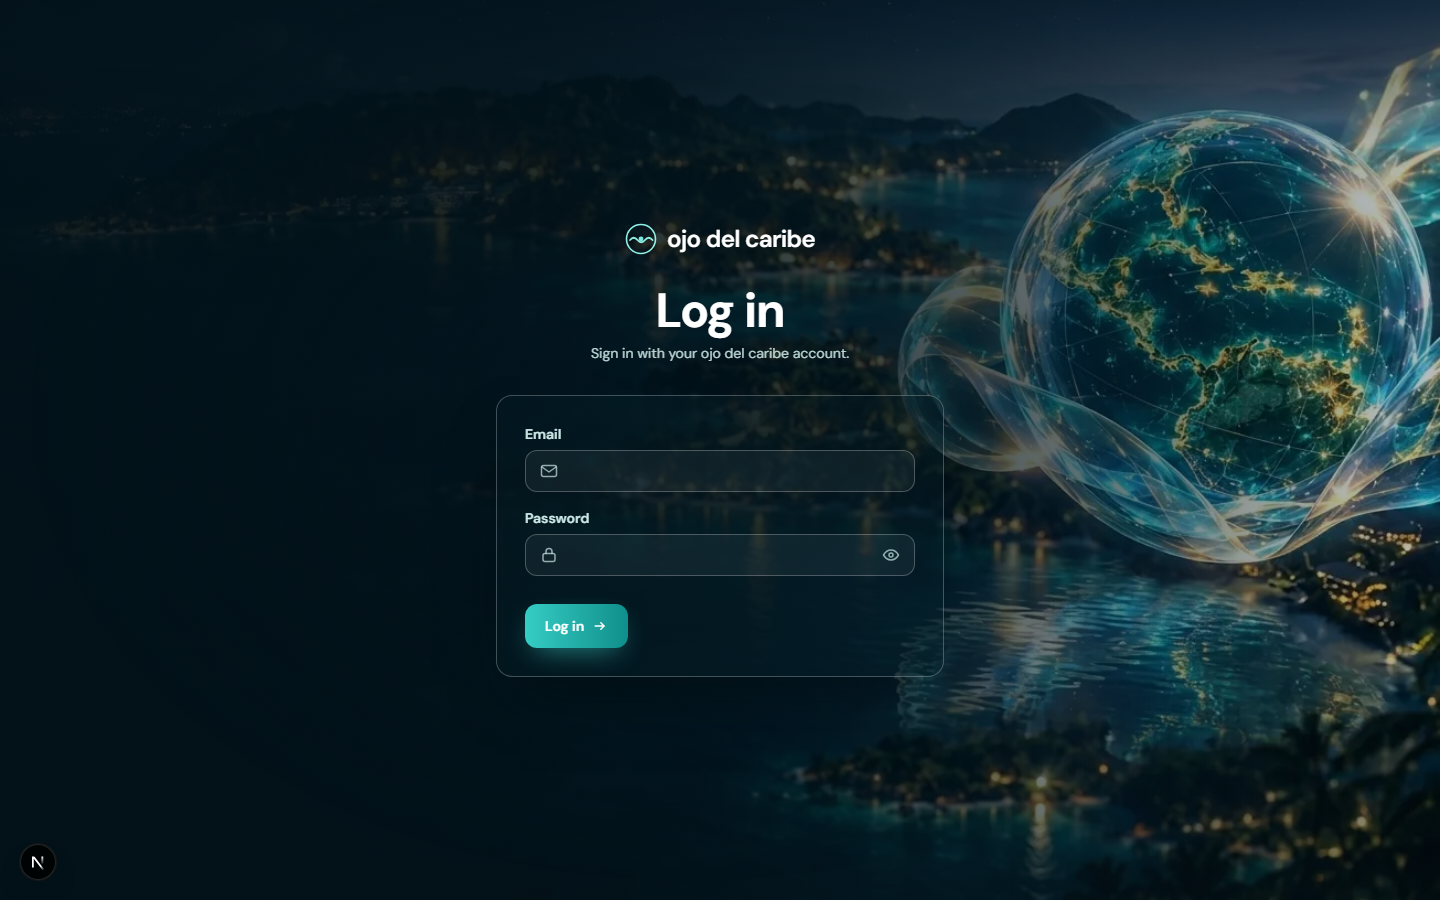
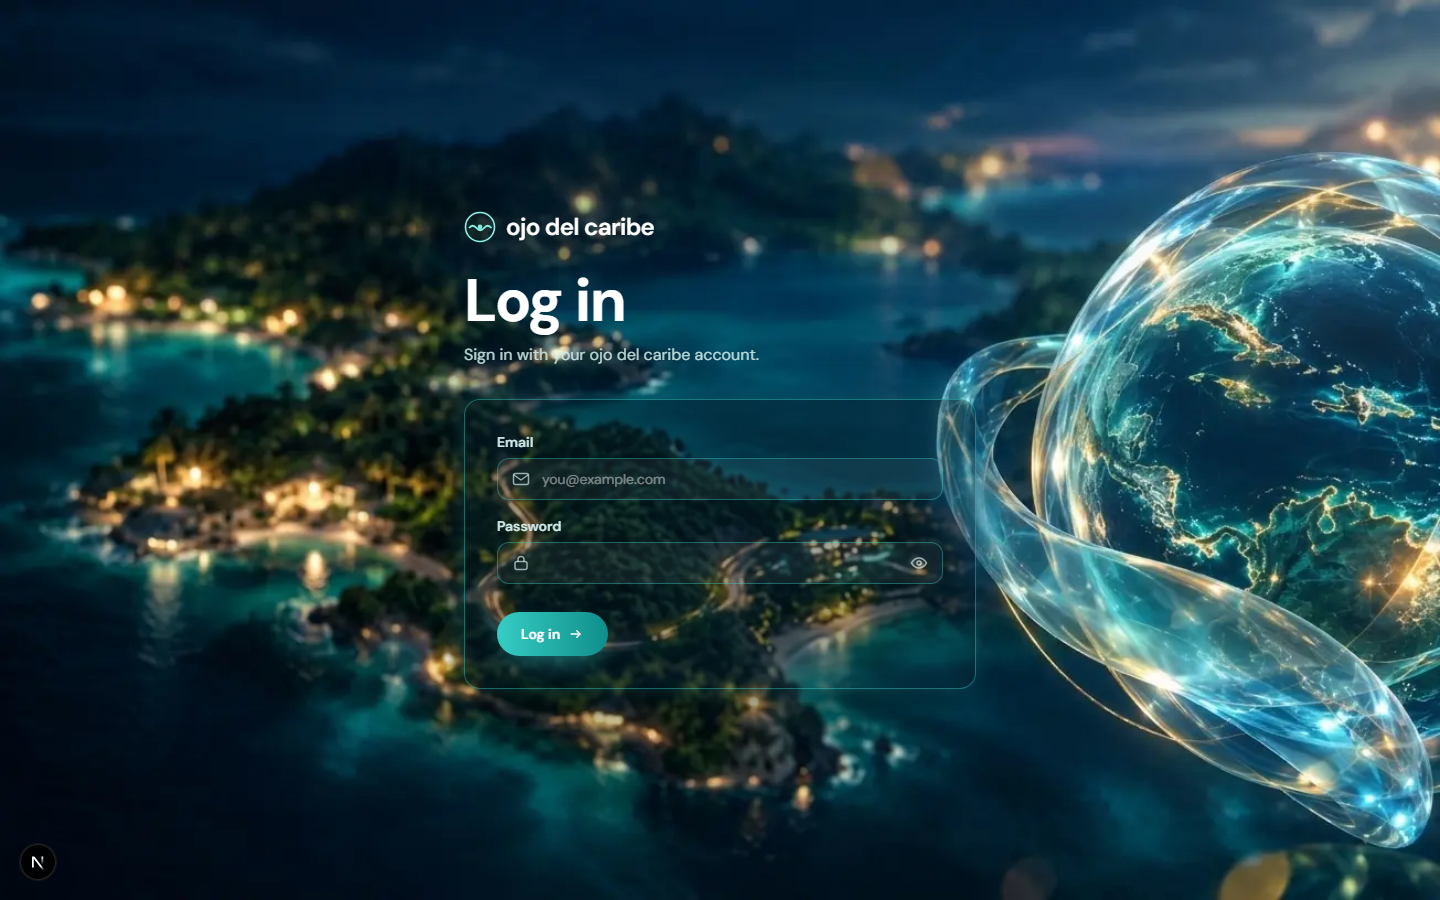
feat(login): match the reference mockup — own vivid webp, no navbar
User review against the mockup, four points: (1) no navbar on the login (the top bar added earlier is dropped; the brand lockup returns above the form); (2) the background must not look opaque — no navy scrim and no radial wash over the photo; (3) use the login's own asset public/login/caribbean-night.webp (previously unused/untracked) full-bleed instead of the shared jpg; (4) components follow the reference: card with cyan hairline + soft glow and p-8, cyan-tinted input borders with a you@example.com placeholder, pill-shaped gradient button, left-aligned h1/subtitle/card. The shared NightBackdrop moved from the root layout to the (app) layout so the two photos never stack or double-download; app views render byte-identical (only login.png changed in the regenerated screenshots). Verified: tsc 0, eslint 0, 51/51, e2e 1/1 (3.7s), browser screenshot compared against the mockup.

diff --git a/frontend/next/src/app/(auth)/login/page.tsx b/frontend/next/src/app/(auth)/login/page.tsx
@@ -1,70 +1,80 @@
+import Image from "next/image";
 import LoginForm from "@/components/LoginForm";
 
 // Full-bleed login ("ojo del caribe" mockup). Static page as before:
 // nothing is fetched server-side, so the build never needs Laravel.
 //
-// The Caribbean night photo is rendered ONCE at the root layout
-// (NightBackdrop) and shared with every app view — one cached download.
-// This page therefore adds no backdrop of its own (the old heavy
-// vertical scrim that dulled the globe is gone); it only paints a soft
-// radial wash behind the centered column so the heading and glass card
-// keep WCAG AA while the glowing globe on the right stays vivid.
+// Background = the login's OWN asset, public/login/caribbean-night.webp
+// (the exact photo from the mockup), rendered full-bleed and VIVID: no
+// navy scrim, no radial wash on top of it — per the user's "la imagen de
+// fondo no debería verse opaca". The glass card carries its own contrast
+// and the heading sits over the photo's dark sky region, as in the
+// reference image. The shared root backdrop (general-caribbean-night.jpg)
+// moved to the (app) layout, so the two photos never stack behind each
+// other or double-download.
+//
+// Layout follows the reference image minus the navbar ("lo único que no
+// va es el navbar"): brand lockup, h1, subtitle and card form a centered
+// column whose contents are LEFT-aligned like the mockup.
+
+// "ojo del caribe" wordmark: an eye whose iris is a wave.
+function EyeWaveMark({ className }: { className?: string }) {
+  return (
+    <svg viewBox="0 0 32 32" className={className} fill="none" aria-hidden="true">
+      <circle
+        cx="16"
+        cy="16"
+        r="14.5"
+        stroke="url(#ojo-ring)"
+        strokeWidth="1.6"
+      />
+      <path
+        d="M5 17c2.5-3 5-3 7.5 0s5 3 7.5 0 5-3 7.5 0"
+        stroke="url(#ojo-wave)"
+        strokeWidth="1.8"
+      />
+      <circle cx="16" cy="16" r="2.4" fill="#7fe6dd" />
+      <defs>
+        <linearGradient id="ojo-ring" x1="2" y1="2" x2="30" y2="30">
+          <stop stopColor="#8ff0e6" />
+          <stop offset="1" stopColor="#2ea39e" />
+        </linearGradient>
+        <linearGradient id="ojo-wave" x1="5" y1="17" x2="27" y2="17">
+          <stop stopColor="#8ff0e6" />
+          <stop offset="1" stopColor="#cdeae8" />
+        </linearGradient>
+      </defs>
+    </svg>
+  );
+}
 
 export default function LoginPage() {
   return (
     <main className="relative flex min-h-dvh flex-col items-center justify-center overflow-hidden px-5 py-12">
-      {/* Soft radial wash behind the centered column — contrast only,
-          kept light and tight so it never reaches the globe on the right
-          (the root backdrop's directional scrim does the heavy lifting). */}
-      <div
-        aria-hidden="true"
-        className="absolute inset-0 bg-[radial-gradient(46%_52%_at_48%_46%,rgba(3,18,25,0.6)_0%,rgba(3,18,25,0.26)_60%,transparent_100%)]"
+      {/* The mockup's own photo — decorative, eager (LCP), unfiltered */}
+      <Image
+        src="/login/caribbean-night.webp"
+        alt=""
+        fill
+        sizes="100vw"
+        priority
+        quality={75}
+        className="object-cover"
       />
 
-      {/* Brand lockup + heading + form, above the backdrop */}
-      <section className="anim-breach relative z-10 w-full max-w-md">
-        {/* "ojo del caribe" wordmark: an eye whose iris is a wave */}
-        <div className="flex items-center justify-center gap-2.5">
-          <svg
-            viewBox="0 0 32 32"
-            className="h-8 w-8"
-            fill="none"
-            aria-hidden="true"
-          >
-            <circle
-              cx="16"
-              cy="16"
-              r="14.5"
-              stroke="url(#ojo-ring)"
-              strokeWidth="1.6"
-            />
-            <path
-              d="M5 17c2.5-3 5-3 7.5 0s5 3 7.5 0 5-3 7.5 0"
-              stroke="url(#ojo-wave)"
-              strokeWidth="1.8"
-              strokeLinecap="round"
-            />
-            <circle cx="16" cy="16" r="2.4" fill="#7fe6dd" />
-            <defs>
-              <linearGradient id="ojo-ring" x1="2" y1="2" x2="30" y2="30">
-                <stop stopColor="#8ff0e6" />
-                <stop offset="1" stopColor="#2ea39e" />
-              </linearGradient>
-              <linearGradient id="ojo-wave" x1="5" y1="17" x2="27" y2="17">
-                <stop stopColor="#8ff0e6" />
-                <stop offset="1" stopColor="#cdeae8" />
-              </linearGradient>
-            </defs>
-          </svg>
+      {/* Brand + heading + form, above the photo */}
+      <section className="anim-breach relative z-10 w-full max-w-lg">
+        <div className="flex items-center gap-2.5">
+          <EyeWaveMark className="h-8 w-8" />
           <span className="font-display text-2xl font-semibold tracking-tight text-white">
             ojo del caribe
           </span>
         </div>
 
-        <h1 className="mt-8 text-center font-display text-5xl font-bold tracking-tight text-white">
+        <h1 className="mt-7 font-display text-5xl font-bold tracking-tight text-white sm:text-6xl">
           Log in
         </h1>
-        <p className="mt-2 text-center text-sm text-brand-100/90">
+        <p className="mt-3 text-base text-brand-100/90">
           Sign in with your ojo del caribe account.
         </p>
 

diff --git a/frontend/next/src/components/LoginForm.tsx b/frontend/next/src/components/LoginForm.tsx
@@ -36,19 +36,22 @@ type SubmitStatus =
 const focusRing =
   "focus-visible:outline-none focus-visible:ring-2 focus-visible:ring-brand-300 focus-visible:ring-offset-2 focus-visible:ring-offset-[#06232a]";
 
+// Card per the mockup: cyan hairline + soft cyan glow around the glass,
+// roomier padding (p-8), deep drop shadow for separation from the photo.
 const cardClassName =
-  "mt-8 rounded-2xl border border-white/25 bg-[rgba(6,28,36,0.55)] p-7 shadow-[0_30px_60px_-24px_rgba(2,12,16,0.8)] supports-[backdrop-filter]:bg-[rgba(6,28,36,0.38)] supports-[backdrop-filter]:backdrop-blur-md";
+  "mt-8 rounded-2xl border border-brand-400/45 bg-[rgba(6,28,36,0.55)] p-8 shadow-[0_0_24px_-6px_rgba(46,163,158,0.4),0_30px_60px_-24px_rgba(2,12,16,0.8)] supports-[backdrop-filter]:bg-[rgba(6,28,36,0.38)] supports-[backdrop-filter]:backdrop-blur-md";
 
 const labelClassName = "block text-sm font-semibold text-brand-100";
 
 // Inputs are transparent so the glass shows through; padding leaves
 // room for the leading icon (and the trailing toggle on password).
-const inputClassName = `w-full rounded-xl border border-white/25 bg-white/5 py-2.5 pl-11 pr-3.5 text-sm text-white placeholder:text-white/45 transition-colors focus:border-brand-400 focus-visible:outline-none focus-visible:ring-2 focus-visible:ring-brand-400/40`;
+// Cyan-tinted borders match the mockup (focus goes solid brand-400).
+const inputClassName = `w-full rounded-xl border border-brand-400/40 bg-white/5 py-2.5 pl-11 pr-3.5 text-sm text-white placeholder:text-white/45 transition-colors focus:border-brand-400 focus-visible:outline-none focus-visible:ring-2 focus-visible:ring-brand-400/40`;
 
 const iconClassName =
   "pointer-events-none absolute inset-y-0 left-3.5 flex items-center text-brand-100/70";
 
-const submitClassName = `mt-7 inline-flex w-full items-center justify-center gap-2 rounded-xl bg-gradient-to-r from-brand-400 to-brand-600 px-5 py-3 text-sm font-semibold text-white shadow-[0_10px_28px_-10px_rgba(46,163,158,0.9)] transition-opacity hover:opacity-90 disabled:opacity-50 disabled:pointer-events-none sm:w-auto ${focusRing}`;
+const submitClassName = `mt-7 inline-flex w-full items-center justify-center gap-2 rounded-full bg-gradient-to-r from-brand-400 to-brand-600 px-6 py-3 text-sm font-semibold text-white shadow-[0_10px_28px_-10px_rgba(46,163,158,0.9)] transition-opacity hover:opacity-90 disabled:opacity-50 disabled:pointer-events-none sm:w-auto ${focusRing}`;
 
 export default function LoginForm() {
   const [email, setEmail] = useState("");
@@ -137,6 +140,7 @@ export default function LoginForm() {
               type="email"
               required
               autoComplete="email"
+              placeholder="you@example.com"
               spellCheck={false}
               value={email}
               onChange={(event) => setEmail(event.target.value)}

diff --git a/frontend/next/src/app/layout.tsx b/frontend/next/src/app/layout.tsx
@@ -1,6 +1,5 @@
 import type { Metadata } from "next";
 import { DM_Sans } from "next/font/google";
-import NightBackdrop from "@/components/NightBackdrop";
 import RequireAuth from "@/components/RequireAuth";
 import "./globals.css";
 
@@ -19,16 +18,17 @@ export const metadata: Metadata = {
   description: "Tourism operations and analytics for Caribbean businesses.",
 };
 
-// The photographic backdrop lives at the root so login and every app
-// view share ONE cached download — client navigations never re-fetch it
-// or flash. It renders behind all content (fixed + -z-10); everything
-// else sits above it. colorScheme:dark steers native form controls,
-// scrollbars and :root semantics to match.
+// The photographic backdrop lives in the (app) layout (authenticated
+// views share ONE cached download — client navigations never re-fetch
+// it or flash). /login renders its own mockup photo instead
+// (public/login/caribbean-night.webp), so it is deliberately not here.
+// RequireAuth guards the authenticated area from the root.
+// colorScheme:dark steers native form controls, scrollbars and :root
+// semantics to match.
 export default function RootLayout({ children }: LayoutProps<"/">) {
   return (
     <html lang="en" className={`${dmSans.variable} h-full antialiased`}>
       <body className="min-h-full flex flex-col font-sans">
-        <NightBackdrop />
         <RequireAuth />
         {children}
       </body>

diff --git a/frontend/next/src/app/(app)/layout.tsx b/frontend/next/src/app/(app)/layout.tsx
@@ -1,11 +1,13 @@
 import Navigation from "@/components/Navigation";
+import NightBackdrop from "@/components/NightBackdrop";
 
-// Authenticated shell (Caribbean night theme): the sticky glass top nav
-// plus the routed content. The shared photographic backdrop is already
-// rendered once at the root layout (behind everything, one cached
-// download across navigations), so this shell does not duplicate it.
-// /login lives in the (auth) group, outside this layout, so it keeps its
-// own full-bleed framing with no nav.
+// Authenticated shell (Caribbean night theme): the shared photographic
+// backdrop (general-caribbean-night.jpg, fixed + -z-10, one cached
+// download across navigations) plus the sticky glass top nav and the
+// routed content. /login lives in the (auth) group, outside this
+// layout: it renders its OWN vivid mockup photo
+// (public/login/caribbean-night.webp) and keeps its full-bleed framing
+// with no nav, so the two photos never stack or double-download.
 export default function AppLayout({
   children,
 }: {
@@ -13,6 +15,7 @@ export default function AppLayout({
 }) {
   return (
     <>
+      <NightBackdrop />
       <Navigation />
       {children}
     </>

diff --git a/frontend/next/src/components/NightBackdrop.tsx b/frontend/next/src/components/NightBackdrop.tsx
@@ -1,9 +1,11 @@
 import Image from "next/image";
 
-// Fixed full-viewport Caribbean night backdrop, shared by every route via
-// the root layout. One <Image> download is cached and reused across client
-// navigations; `fixed` + `fill` keeps it compositor-only (no reflow as
-// content scrolls over it).
+// Fixed full-viewport Caribbean night backdrop, shared by the (app)
+// routes via the authenticated layout. One <Image> download is cached
+// and reused across client navigations; `fixed` + `fill` keeps it
+// compositor-only (no reflow as content scrolls over it). /login does
+// not use this component — it renders its own vivid mockup photo
+// (public/login/caribbean-night.webp) with no scrim.
 //
 // Layering (all compositor-only):
 //   1. base   — deep-sea gradient: the paint shown before the photo decodes
